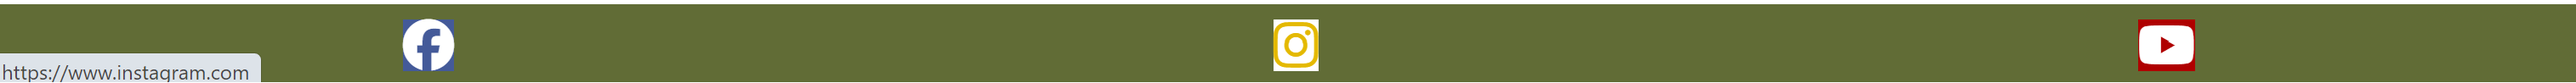
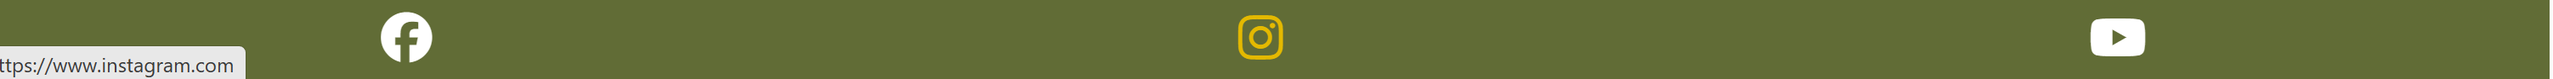
update screenshots on README.md

Changed region(s): [[0.0, 0.0, 1.0, 1.0], [0.8049, 0.234, 0.8668, 0.8723], [0.4644, 0.1915, 0.5263, 0.8723]]

diff --git a/assets/css/style.css b/assets/css/style.css
@@ -321,12 +321,12 @@ textarea {
 /* Footer */
 
 #icon-list {
-    background-color: var(--dark-green);
-    margin: auto;
-    height: 5rem;
     display: flex;
     justify-content: space-around;
     align-items: center;
+    background-color: var(--dark-green);
+    margin: auto;
+    height: 5rem;
 }
 
 .fa-brands {

diff --git a/README.md b/README.md
@@ -158,7 +158,7 @@ It also has a shade of rose pink for :hover effect to improve user experience.
 
 - Small devices (<576px)
 
-For small devices, the desktop navigation bar is not user friendly. For this reason, it is coded to wrap into hamburger style icon located on the left. Once user clicks on the icon, the navigation dropdown options float on left screen of the mobile device.
+For small devices, the desktop navigation bar is not user friendly. For this reason, it is coded to wrap into hamburger style icon located on the right. Once user clicks on the icon, the navigation dropdown options display in the center of the screen of the mobile device.
 
 ![Navigation bar mobile screen](docs/navbar-mobile-device.png)
 
@@ -290,7 +290,7 @@ When end-user clicks the button to either join or send, the applicable page for 
 
 ### Footer
 
-Moss green colour is used throughout the elements of the webpage is continued to the footer as a background. Footer includes the links to social media which are coded to open in a separate tab. The three links are spread across the bottom of the page. A saffron yellow hover effect is added to the social media icons. The hover colour is visually consistent with the Contact section buttons.
+Moss green colour is used throughout the elements of the webpage is continued to the footer as a background. Footer includes the links to social media which are coded to open in a separate tab. The three links are spread across the bottom of the page. A saffron yellow hover effect is added to the social media icons. The hover colour is visually consistent with the Contact section background.
 
 ![Footer with Hover](docs/footer-hover.png)
 
